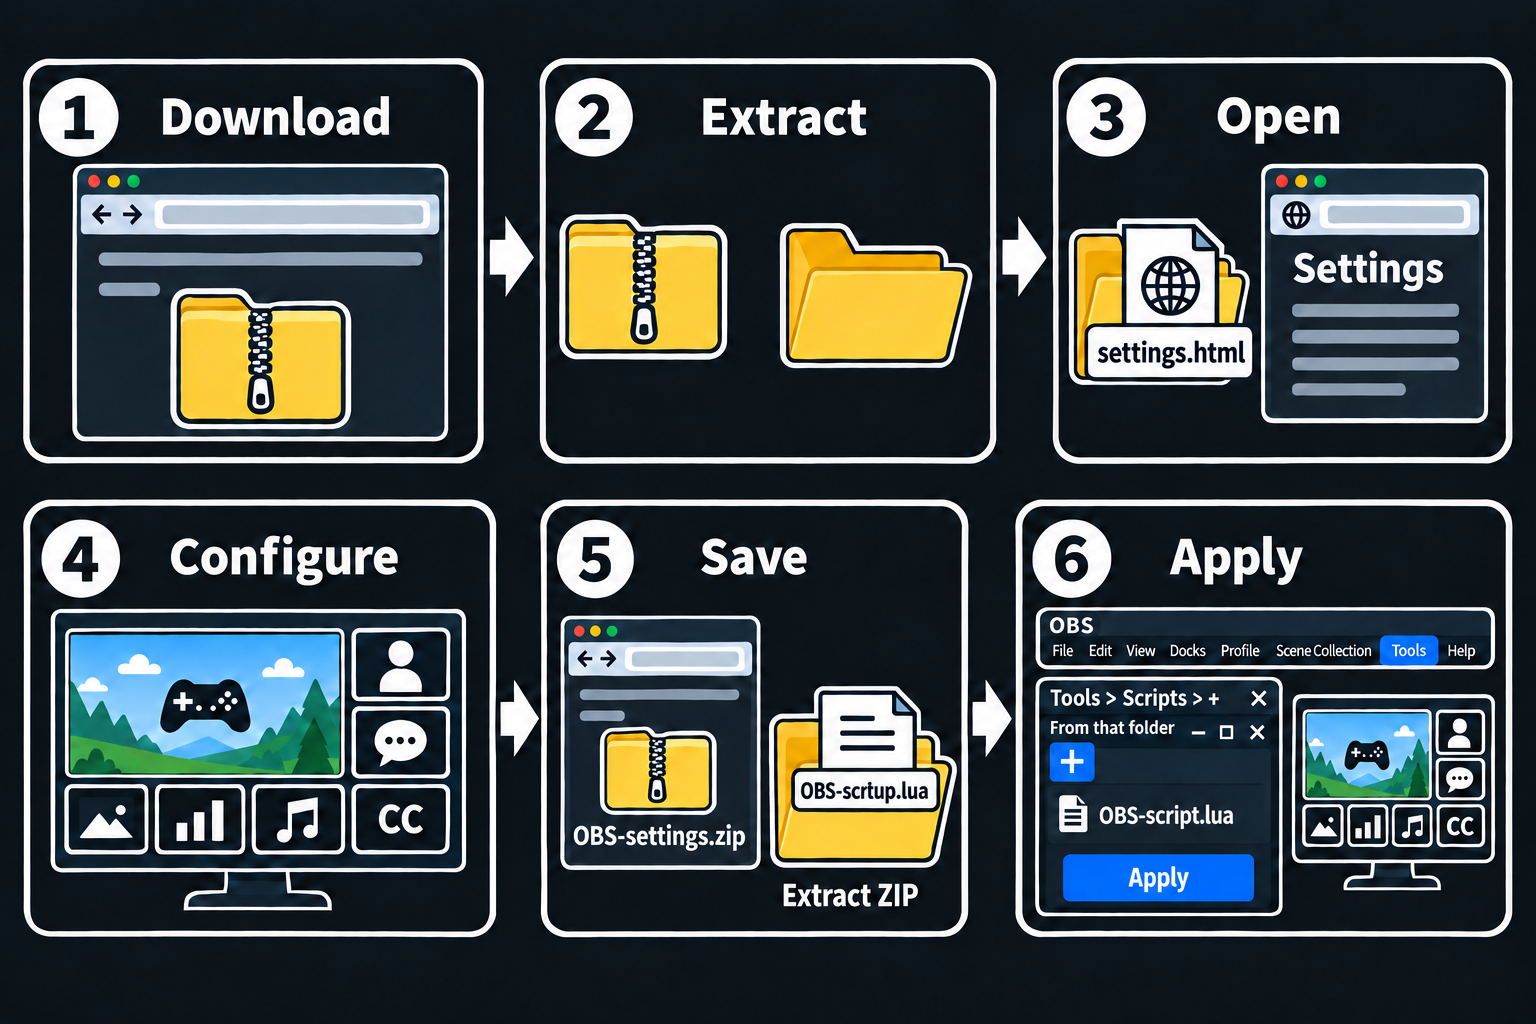
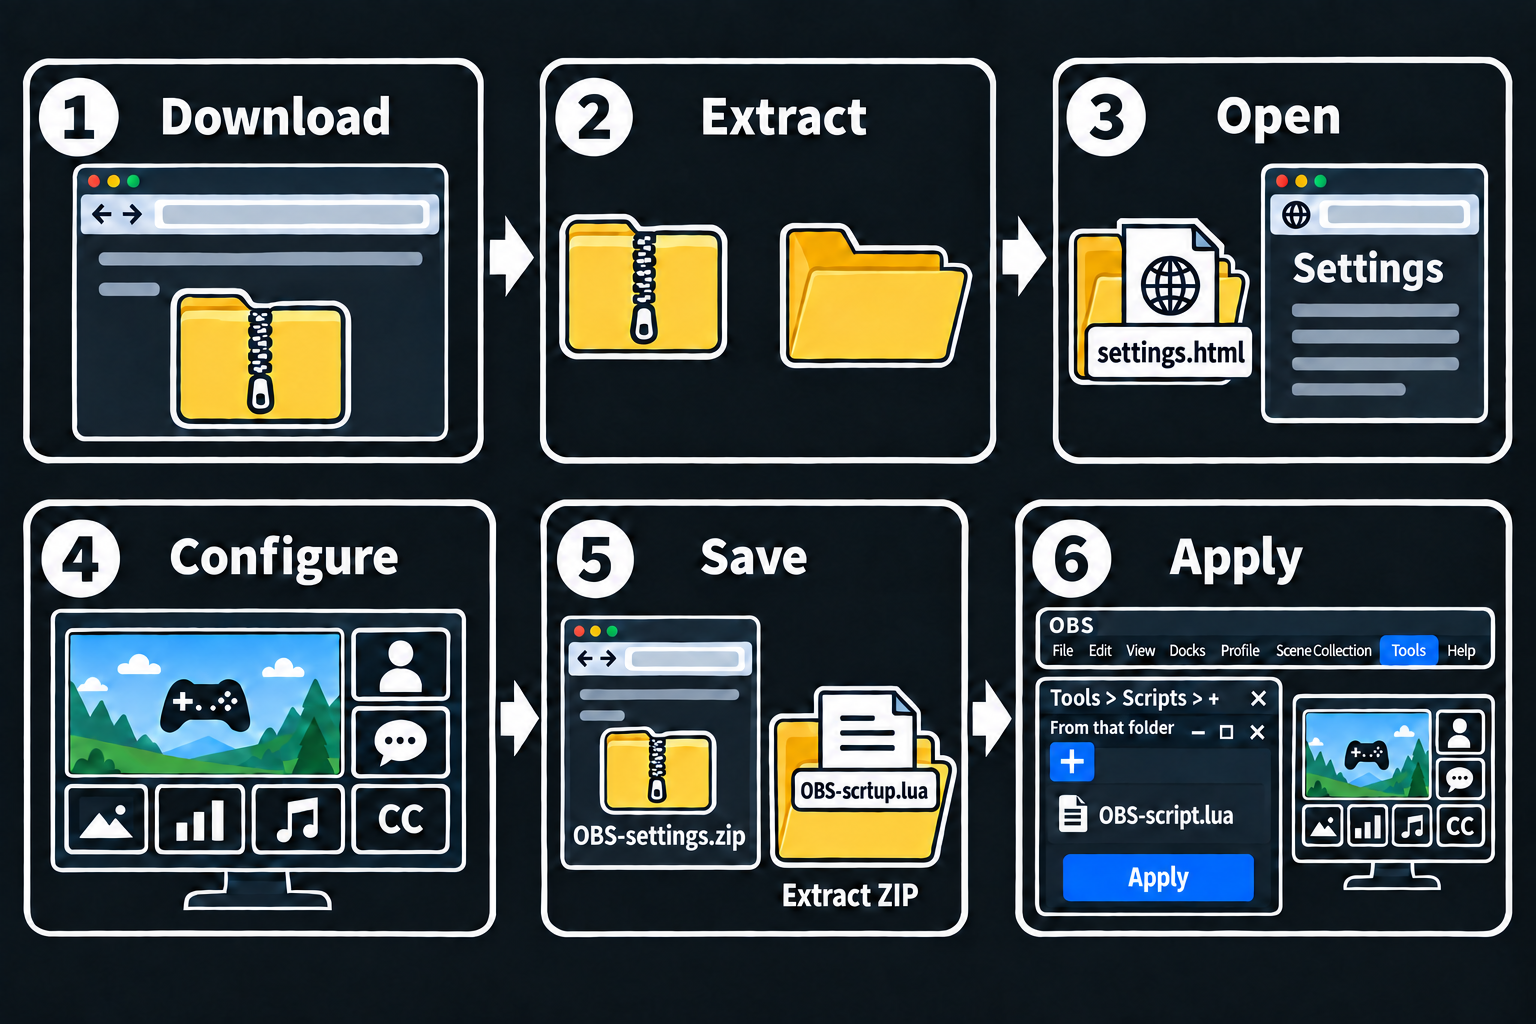
feat: version independent OBS installation package as 0.5.0

diff --git a/template/version.js b/template/version.js
@@ -1,1 +1,1 @@
-window.KMG_VERSION = '0.4.8';
+window.KMG_VERSION = '0.5.0';

diff --git a/README.md b/README.md
@@ -40,7 +40,7 @@ Select the required sources, then click **Apply saved settings / Auto layout** o
 
 Keep the installation folder in place; OBS uses its files. English is the default language, with Korean and Japanese available.
 
-**0.4.8 — test version.** Installation checks remain incomplete; see [QA results](docs/QA.md).
+**0.5.0 — test version.** Installation checks remain incomplete; see [QA results](docs/QA.md).
 
 To update your layout, repeat steps 4–6. Each source can serve only one panel; scenes and groups cannot be selected. Seven camera panels require seven distinct sources. For Korean script controls, enable **English UI (reload after changing)** and reload.
 

diff --git a/CHANGELOG.md b/CHANGELOG.md
@@ -1,4 +1,4 @@
-## 0.4.8
+## 0.5.0
 
 - Save a complete OBS package with OBS-script.lua; extract and select that script in the same folder.
 
